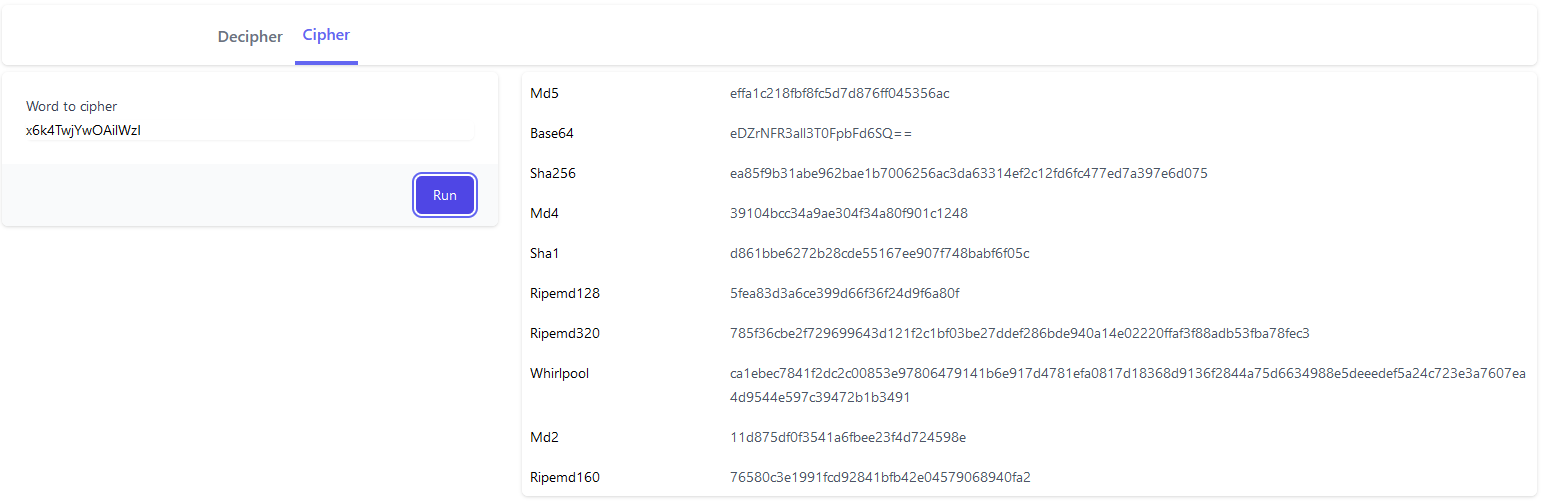
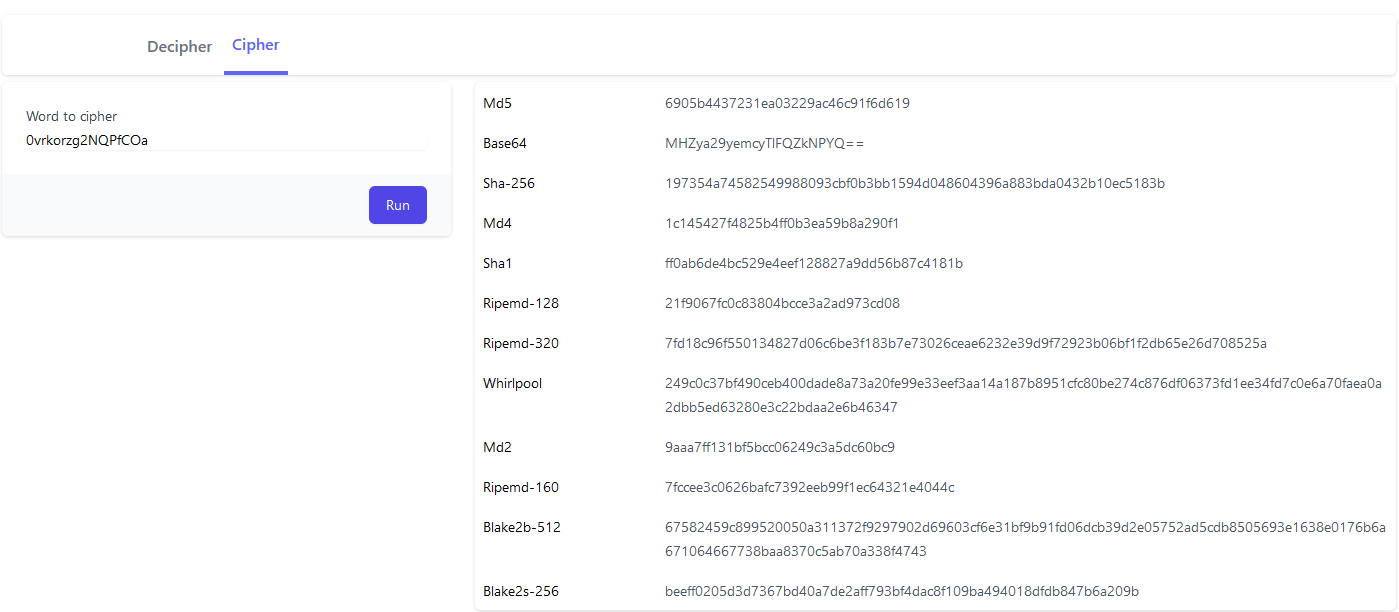
adding blake2 hash algoirthm support

diff --git a/src/site/index.html b/src/site/index.html
@@ -63,43 +63,51 @@
                             <ul>
                               <li>
                                 <input type="radio" id="rbMd2" name="rbAlgorithm" value="9" checked="true"></input>
-                                <label for="rbMd2">md2</label>
+                                <label for="rbMd2">Md2</label>
                               </li>
                               <li>
                                 <input type="radio" id="rbMd4" name="rbAlgorithm" value="4"></input>
-                                <label for="rbMd4">md4</label>
+                                <label for="rbMd4">Md4</label>
                               </li>
                               <li>
                                 <input type="radio" id="rbMd5" name="rbAlgorithm" value="1"></input>
-                                <label for="rbMd5">md5</label>
+                                <label for="rbMd5">Md5</label>
                               </li>
                               <li>
                                 <input type="radio" id="rbSha1" name="rbAlgorithm" value="5"></input>
-                                <label for="rbSha1">sha1</label>
+                                <label for="rbSha1">Sha1</label>
                               </li>
                               <li>
                                 <input type="radio" id="rbSha256" name="rbAlgorithm" value="3"></input>
-                                <label for="rbSha256">sha256</label>
+                                <label for="rbSha256">Sha-256</label>
                               </li>
                               <li>
                                 <input type="radio" id="rbBase64" name="rbAlgorithm" value="2"></input>
-                                <label for="rbBase64">base64</label>
+                                <label for="rbBase64">Base64</label>
                               </li>
                               <li>
                                 <input type="radio" id="rbRipemd128" name="rbAlgorithm" value="6"></input>
-                                <label for="rbRipemd128">ripemd128</label>
+                                <label for="rbRipemd128">Ripemd-128</label>
                               </li>
                               <li>
                                 <input type="radio" id="rbRipemd160" name="rbAlgorithm" value="10"></input>
-                                <label for="rbRipemd160">ripemd160</label>
+                                <label for="rbRipemd160">Ripemd-160</label>
                               </li>
                               <li>
                                 <input type="radio" id="rbRipemd320" name="rbAlgorithm" value="7"></input>
-                                <label for="rbRipemd320">ripemd320</label>
+                                <label for="rbRipemd320">Ripemd-320</label>
                               </li>
                               <li>
                                 <input type="radio" id="rbWhirlpool" name="rbAlgorithm" value="8"></input>
-                                <label for="rbWhirlpool">whirlpool</label>
+                                <label for="rbWhirlpool">Whirlpool</label>
+                              </li>
+                              <li>
+                                <input type="radio" id="rbBlake2b" name="rbAlgorithm" value="11"></input>
+                                <label for="rbBlake2b">Blake2b-512</label>
+                              </li>
+                              <li>
+                                <input type="radio" id="rbBlake2s" name="rbAlgorithm" value="12"></input>
+                                <label for="rbBlake2s">Blake2s-256</label>
                               </li>
                               <p class="mt-2 text-sm text-gray-600">
                                 Or try to

diff --git a/src/site/js/cipher.js b/src/site/js/cipher.js
@@ -17,21 +17,25 @@ if (nav !== null && nav !== "undefined") {
                     case "2":
                         return "Base64";
                     case "3":
-                        return "Sha256";
+                        return "Sha-256";
                     case "4":
                         return "Md4";
                     case "5":
                         return "Sha1";
                     case "6":
-                        return "Ripemd128";
+                        return "Ripemd-128";
                     case "7":
-                        return "Ripemd320";
+                        return "Ripemd-320";
                     case "8":
                         return "Whirlpool";
                     case "9":
                         return "Md2";
                     case "10":
-                        return "Ripemd160";
+                        return "Ripemd-160";
+                    case "11":
+                        return "Blake2b-512";
+                    case "12":
+                        return "Blake2s-256";
                     default:
                         return id;
                 }

diff --git a/src/ripper_wasm/src/algorithms.rs b/src/ripper_wasm/src/algorithms.rs
@@ -16,6 +16,8 @@ pub mod implementations {
         Whirlpool = 8,
         Md2 = 9,
         Ripemd160 = 10,
+        Blake2b = 11,
+        Blake2s = 12
     }
 
     #[wasm_bindgen]
@@ -53,8 +55,10 @@ pub mod implementations {
     struct Ripemd320Wrapper {}
     struct WhirlpoolWrapper {}
     struct Md2Wrapper {}
+    struct Blake2bWrapper {}
+    struct Blake2sWrapper {}
 
-    static ALGORITHMS: [HashAlgorithm; 10] = [
+    static ALGORITHMS: [HashAlgorithm; 12] = [
         HashAlgorithm::Md5,
         HashAlgorithm::Base64,
         HashAlgorithm::Sha256,
@@ -65,6 +69,8 @@ pub mod implementations {
         HashAlgorithm::Whirlpool,
         HashAlgorithm::Md2,
         HashAlgorithm::Ripemd160,
+        HashAlgorithm::Blake2b,
+        HashAlgorithm::Blake2s,
     ];
 
     impl HashAlgorithm {
@@ -86,6 +92,8 @@ pub mod implementations {
                 HashAlgorithm::Ripemd320 => Some((HashAlgorithm::Ripemd320 as u8, Box::new(Ripemd320Wrapper { }))),
                 HashAlgorithm::Whirlpool => Some((HashAlgorithm::Whirlpool as u8, Box::new(WhirlpoolWrapper { }))),
                 HashAlgorithm::Md2 => Some((HashAlgorithm::Md2 as u8, Box::new(Md2Wrapper {}))),
+                HashAlgorithm::Blake2b => Some((HashAlgorithm::Blake2b as u8, Box::new(Blake2bWrapper{}))),
+                HashAlgorithm::Blake2s => Some((HashAlgorithm::Blake2s as u8, Box::new(Blake2sWrapper{}))),
             }
         }
     }
@@ -235,6 +243,31 @@ pub mod implementations {
         }
     }
 
+    mod blake2 {
+        use blake2::{Digest, Blake2b, Blake2s};
+        use crate::HashEncoder;
+        use crate::algorithms::implementations::Blake2bWrapper;
+        use crate::algorithms::implementations::Blake2sWrapper;
+
+        impl HashEncoder for Blake2bWrapper {
+            fn encode(&self, input: &String) -> String {
+                let mut hasher = Blake2b::new();
+                hasher.update(input);
+                let result = hasher.finalize();
+                format!("{:x}", result)
+            }
+        }
+
+        impl HashEncoder for Blake2sWrapper {
+            fn encode(&self, input: &String) -> String {
+                let mut hasher = Blake2s::new();
+                hasher.update(input);
+                let result = hasher.finalize();
+                format!("{:x}", result)
+            }
+        }
+    }
+
     impl SymetricEncoder for DesWrapper {        
         fn encode(&self, _key: &String, _input: &String) -> String { 
             todo!() 
@@ -323,6 +356,8 @@ mod tests {
         ripemd160: (HashAlgorithm::Ripemd160, "7f772647d88750add82d8e1a7a3e5c0902a346a3"),
[4 lines of base64/hex data omitted]
     }
 
     #[test]

diff --git a/src/ripper_wasm/src/lib.rs b/src/ripper_wasm/src/lib.rs
@@ -68,6 +68,8 @@ mod tests {
         match_ripemd160: ("25fc9204b31e219e770f9b973b2f206b4049b732", HashAlgorithm::Ripemd160),
[4 lines of base64/hex data omitted]
     }
 
     #[wasm_bindgen_test]

diff --git a/README.md b/README.md
@@ -20,6 +20,8 @@ Please, refer to each crate documentation and check its licensing.
 |`ripemd160`  | RIPEMD160 | [![crates.io](https://img.shields.io/crates/v/ripemd160.svg)](https://crates.io/crates/ripemd160)|
 |`ripemd320`  | RIPEMD320 | [![crates.io](https://img.shields.io/crates/v/ripemd320.svg)](https://crates.io/crates/ripemd320)|
 |`whirlpool`  | WHIRLPOOL | [![crates.io](https://img.shields.io/crates/v/whirlpool.svg)](https://crates.io/crates/whirlpool)|
+|`Blake2b`    | BLAKE2B-512 | [![crates.io](https://img.shields.io/crates/v/blake2.svg)](https://crates.io/crates/blake2)|
+|`Blake2s`    | BLAKE2S-256 | [![crates.io](https://img.shields.io/crates/v/blake2.svg)](https://crates.io/crates/blake2)|
 
 <br/>
 
